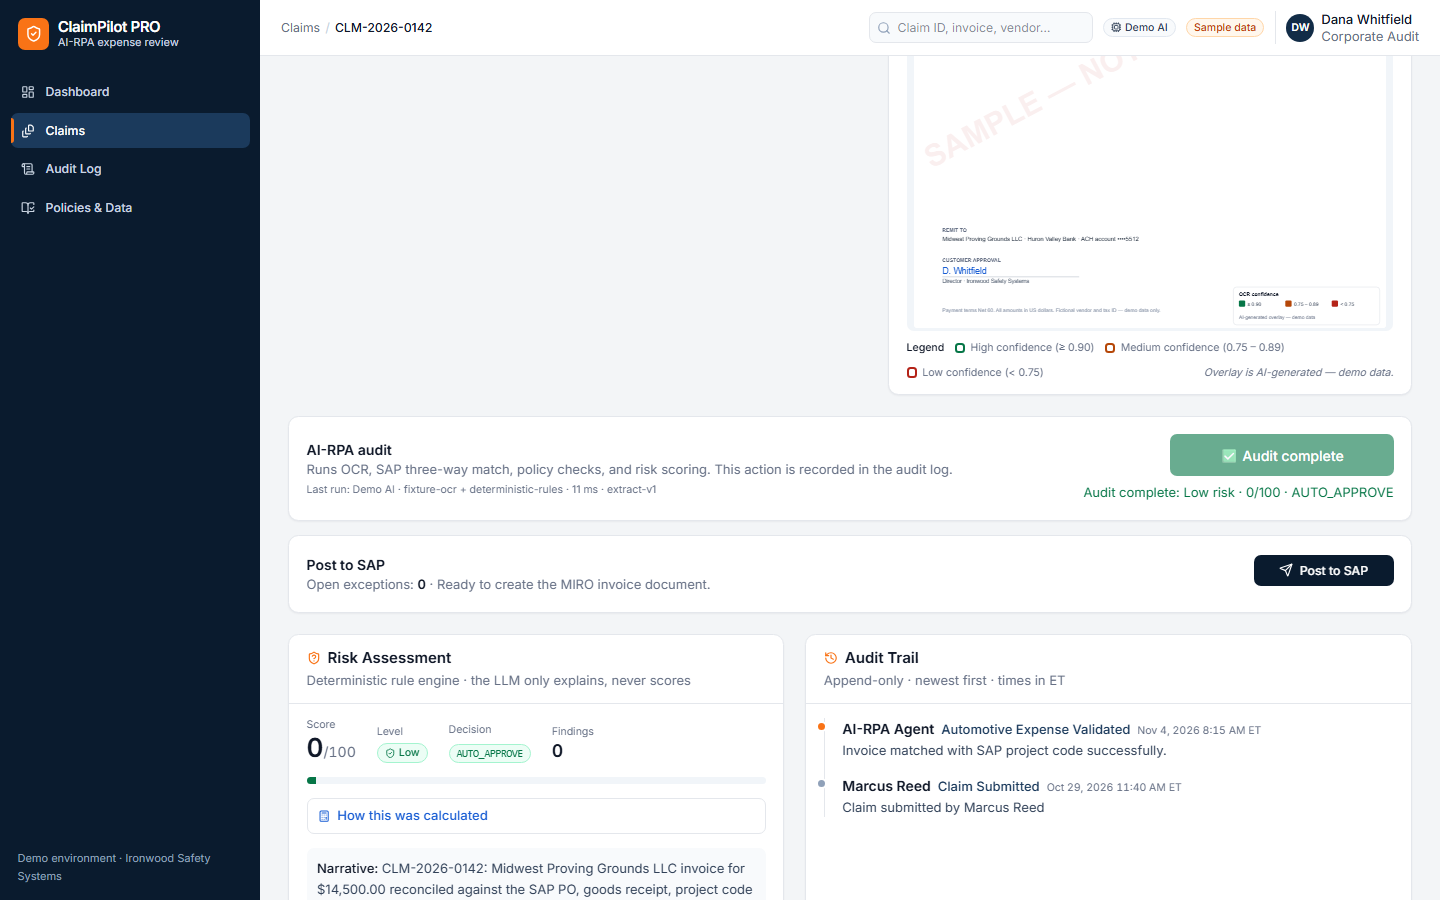
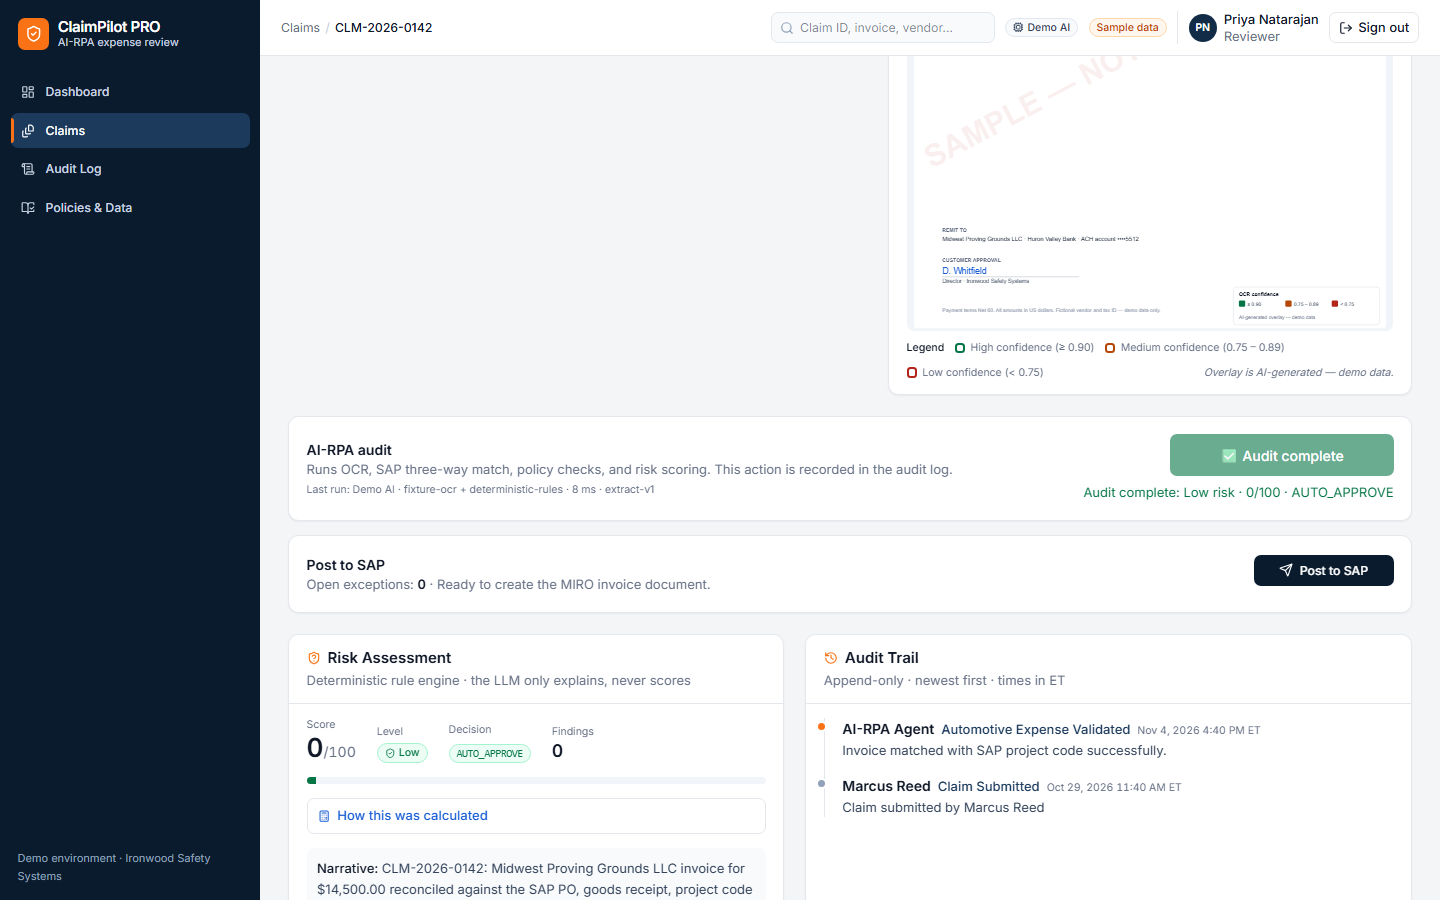
feat(auth): record who initiated system actions; polish, docs, Secure cookie
- AuditLog metadata.initiatedBy on the AI analysis row and the Posted to SAP
  row (renamed from postedBy); actor unchanged. /audit shows "initiated by".
- auditActionTone() helper: Posted is green, Resolved/Waived amber.
- Exceptions table shows who handled each exception (resolvedBy).
- Session cookie Secure follows the request protocol (isSecureRequest),
  fixing sign-in under `pnpm start` on plain http.
- Demo script requires sign-in, honors no-self-approval on CLM-2026-0144,
  never pays the 0145 duplicate. Screenshots regenerated incl. /login.
- No public registration (D-29), Secure cookie (D-30), initiatedBy (D-31).
- icon.svg favicon; ignore eng.traineddata.

Changed region(s): [[0.6875, 0.0, 1.0, 0.0622], [0.5625, 0.0, 0.625, 0.0622], [0.4062, 0.5289, 0.4375, 0.56]]

diff --git a/scripts/screenshots.ts b/scripts/screenshots.ts
@@ -1,5 +1,6 @@
 // Captures README screenshots and audit GIF frames from a running dev server.
 // Usage: start the app (`pnpm db:seed` for a fresh demo, then `pnpm dev`), then `pnpm shots`.
+// Requires AI_MODE="mock" and OCR_MODE="fixture" so the captures are deterministic.
 import { mkdir } from "node:fs/promises";
 import path from "node:path";
 import { chromium, type Page } from "playwright";
@@ -9,6 +10,8 @@ const BASE = process.env.SHOTS_BASE_URL ?? "http://localhost:3000";
 const OUT = path.resolve("docs/images");
 const FRAMES = path.join(OUT, "audit-frames");
 const CLAIM = "CLM-2026-0142";
+// Submitted by Elena Vasquez, so the reviewer may handle it; one R-11 exception (not a duplicate).
+const HANDLED = "CLM-2026-0143";
 
 async function probe(): Promise<boolean> {
   try {
@@ -37,9 +40,16 @@ async function main() {
   const browser = await chromium.launch();
   const page = await browser.newPage({ viewport: { width: 1440, height: 900 } });
   try {
-    // Pages require a session: sign in as the demo admin (the cookie is shared with the page).
-    const admin = DEMO_ACCOUNTS.find((a) => a.role === "admin")!;
-    const login = await page.request.post(`${BASE}/api/auth/login`, { data: { email: admin.email, password: admin.password } });
+    // Signed out: every page redirects to /login.
+    await page.goto(`${BASE}/dashboard`);
+    await page.waitForURL("**/login**");
+    await settle(page);
+    await page.screenshot({ path: path.join(OUT, "login.png") });
+    console.log("✔ login.png");
+
+    // Pages require a session: sign in as the demo reviewer (the cookie is shared with the page).
+    const reviewer = DEMO_ACCOUNTS.find((a) => a.role === "reviewer")!;
+    const login = await page.request.post(`${BASE}/api/auth/login`, { data: { email: reviewer.email, password: reviewer.password } });
     if (!login.ok()) {
       console.error(`Demo sign-in failed (${login.status()}). Run \`pnpm db:seed\` to create the demo accounts.`);
       process.exit(1);
@@ -89,6 +99,24 @@ async function main() {
     await riskCard.screenshot({ path: path.join(OUT, "risk-panel.png") });
     console.log("✔ risk-panel.png");
 
+    // A claim the reviewer handled: audit, waive its one exception, post. Shows "by …" and the green Posted row.
+    const api = async (method: "POST" | "PATCH", url: string, data?: unknown) => {
+      const res = await page.request.fetch(`${BASE}${url}`, { method, data });
+      if (!res.ok()) throw new Error(`${method} ${url} → ${res.status()} ${await res.text()}`);
+      return res.json() as Promise<Record<string, unknown>>;
+    };
+    const audited = (await api("POST", `/api/claims/${HANDLED}/audit`)) as { exceptions: { exceptionId: string }[] };
+    for (const ex of audited.exceptions) {
+      await api("PATCH", `/api/claims/${HANDLED}/exceptions/${ex.exceptionId}`, { status: "Waived", note: "Lodging rate approved by SQ manager — city-wide event pricing." });
+    }
+    await api("POST", `/api/claims/${HANDLED}/post`);
+    await page.goto(`${BASE}/claims/${HANDLED}`);
+    await settle(page);
+    const exceptionsCard = page.locator("section").filter({ has: page.getByText("One row per rule finding") });
+    await exceptionsCard.scrollIntoViewIfNeeded();
+    await exceptionsCard.screenshot({ path: path.join(OUT, "exceptions-handled.png") });
+    console.log("✔ exceptions-handled.png");
+
     await page.goto(`${BASE}/audit`);
     await settle(page);
     await page.screenshot({ path: path.join(OUT, "audit-log.png") });
@@ -96,7 +124,7 @@ async function main() {
   } finally {
     await browser.close();
   }
-  console.log(`Done → ${OUT}. Run \`pnpm db:seed\` to reset ${CLAIM} to Pending.`);
+  console.log(`Done → ${OUT}. Run \`pnpm db:seed\` to reset ${CLAIM} and ${HANDLED}.`);
 }
 
 main().catch((err) => {

diff --git a/src/app/(app)/claims/[claimId]/page.tsx b/src/app/(app)/claims/[claimId]/page.tsx
@@ -49,7 +49,7 @@ export default async function ClaimReviewPage({ params }: { params: Params }) {
   // UI mirror of the server-side checks (D-27): reviewer/admin, and never on your own claim.
   const user = await requireUser();
   const reviewBlock = !canReview(user) ? "Only a reviewer or admin can resolve exceptions and post to SAP." : claim.employee === user.name ? "You submitted this claim, so another reviewer must resolve and post it." : null;
-  const findings = claim.exceptions.map((e) => ({ exceptionId: e.exceptionId, ruleId: e.ruleId, anomalyType: e.anomalyType, riskLevel: e.riskLevel, points: e.points, message: e.message, status: e.status, evidence: e.evidence }));
+  const findings = claim.exceptions.map((e) => ({ exceptionId: e.exceptionId, ruleId: e.ruleId, anomalyType: e.anomalyType, riskLevel: e.riskLevel, points: e.points, message: e.message, status: e.status, evidence: e.evidence, resolvedBy: e.resolvedBy }));
 
   return (
     <article>
@@ -189,12 +189,14 @@ export default async function ClaimReviewPage({ params }: { params: Params }) {
               <h2 className="font-semibold">Post to SAP</h2>
               <p id="post-help" className="text-[13px] text-muted">
                 Open exceptions: <span className="tabular font-semibold text-ink">{openExceptions}</span>
-                {openExceptions > 0 ? " · Resolve or waive all exceptions first." : " · Ready to create the MIRO invoice document."}
+                {reviewBlock
+                  ? ` · ${reviewBlock}`
+                  : openExceptions > 0
+                    ? " · Resolve or waive all exceptions first."
+                    : " · Ready to create the MIRO invoice document."}
               </p>
             </div>
-            {reviewBlock ? (
-              <p className="max-w-sm text-[13px] text-muted">{reviewBlock}</p>
-            ) : (
+            {!reviewBlock && (
               <PostToSapButton claimId={claim.claimId} openExceptions={openExceptions} amountLabel={formatUsd(amountCents)} />
             )}
           </CardContent>

diff --git a/src/components/claims/audit-log-table.tsx b/src/components/claims/audit-log-table.tsx
@@ -7,6 +7,7 @@ import { X } from "lucide-react";
 import { formatEt } from "@/lib/domain/dates";
 import { Table, TBody, TD, TH, THead, TR } from "@/components/ui/table";
 import { Badge } from "@/components/ui/badge";
+import { auditActionTone, initiatedByOf } from "@/lib/audit/tone";
 
 type Row = { logId: string; timestamp: string; actor: string; action: string; details: string; claimId: string | null; metadata: string | null };
 
@@ -41,9 +42,15 @@ export function AuditLogTable({ rows }: { rows: Row[] }) {
           {rows.map((r) => (
             <TR key={r.logId}>
               <TD className="tabular whitespace-nowrap text-xs">{formatEt(r.timestamp)}</TD>
-              <TD className="whitespace-nowrap font-medium">{r.actor}</TD>
+              <TD className="whitespace-nowrap font-medium">
+                {r.actor}
+                {(() => {
+                  const by = initiatedByOf(r.metadata);
+                  return by && by !== r.actor ? <span className="block text-[11px] font-normal text-muted">initiated by {by}</span> : null;
+                })()}
+              </TD>
               <TD className="whitespace-nowrap">
-                <Badge tone={r.action.includes("Flagged") ? "red" : r.action.includes("Validated") ? "green" : r.action.includes("Failed") ? "amber" : "neutral"}>{r.action}</Badge>
+                <Badge tone={auditActionTone(r.action)}>{r.action}</Badge>
               </TD>
               <TD className="whitespace-nowrap font-mono text-xs">
                 {r.claimId ? (

diff --git a/src/lib/audit/disposition.ts b/src/lib/audit/disposition.ts
@@ -9,7 +9,7 @@ import { miroDocNo } from "./miro";
 
 export type PostResult = { claimId: string; status: "Posted"; postedAt: string; miroDocNo: string };
 
-/** `actor` is the signed-in reviewer: attributed on the Exceptions Resolved row and recorded as `postedBy` on the SAP row. */
+/** `actor` is the signed-in reviewer: attributed on the Exceptions Resolved row and recorded as `initiatedBy` on the SAP row. */
 export async function postClaim(claimId: string, opts: { requestId: string; actor: string; revalidate?: (paths: string[]) => void }): Promise<PostResult> {
   const claim = await prisma.claim.findUnique({ where: { claimId }, include: { vendor: true, exceptions: true } });
   if (!claim) throw new AuditError(404, "CLAIM_NOT_FOUND", `Claim ${claimId} not found`);
@@ -21,7 +21,7 @@ export async function postClaim(claimId: string, opts: { requestId: string; acto
   const now = new Date();
   const docNo = miroDocNo(now);
   const metadata = JSON.stringify({ requestId: opts.requestId });
-  const postMetadata = JSON.stringify({ requestId: opts.requestId, postedBy: opts.actor });
+  const postMetadata = JSON.stringify({ requestId: opts.requestId, initiatedBy: opts.actor });
   await prisma.$transaction(async (tx) => {
     // Status guard inside the transaction so concurrent posts cannot both succeed.
     const updated = await tx.claim.updateMany({ where: { claimId, status: "Analyzed" }, data: { status: "Posted", postedAt: now, miroDocNo: docNo } });

diff --git a/src/tests/audit-tone.test.ts b/src/tests/audit-tone.test.ts
@@ -1,0 +1,32 @@
+import { describe, expect, it } from "vitest";
+import { auditActionTone, initiatedByOf } from "@/lib/audit/tone";
+
+describe("auditActionTone", () => {
+  it("Flagged → red", () => expect(auditActionTone("Automotive Expense Flagged")).toBe("red"));
+  it("Validated | Posted → green", () => {
+    expect(auditActionTone("Automotive Expense Validated")).toBe("green");
+    expect(auditActionTone("Posted to SAP")).toBe("green");
+  });
+  it("Failed → amber", () => {
+    expect(auditActionTone("Audit Failed")).toBe("amber");
+    expect(auditActionTone("Sign-in Failed")).toBe("amber");
+  });
+  it("Resolved | Waived → amber", () => {
+    expect(auditActionTone("Exception Resolved")).toBe("amber");
+    expect(auditActionTone("Exceptions Resolved")).toBe("amber");
+    expect(auditActionTone("Exception Waived")).toBe("amber");
+  });
+  it("anything else → neutral", () => {
+    expect(auditActionTone("Claim Submitted")).toBe("neutral");
+    expect(auditActionTone("User Signed In")).toBe("neutral");
+  });
+});
+
+describe("initiatedByOf", () => {
+  it("reads initiatedBy from metadata, tolerating null and bad JSON", () => {
+    expect(initiatedByOf(JSON.stringify({ requestId: "x", initiatedBy: "Priya Natarajan" }))).toBe("Priya Natarajan");
+    expect(initiatedByOf(JSON.stringify({ initiatedBy: null }))).toBeNull();
+    expect(initiatedByOf(null)).toBeNull();
+    expect(initiatedByOf("{not json")).toBeNull();
+  });
+});

diff --git a/src/tests/audit.test.ts b/src/tests/audit.test.ts
@@ -12,7 +12,7 @@ afterAll(() => prisma.$disconnect());
 describe("runAudit (integration, mock mode)", () => {
   it("clean claim CLM-2026-0142 writes the exact validated entry and status Analyzed", async () => {
     const revalidated: string[] = [];
-    const res = await runAudit("CLM-2026-0142", opts({ revalidate: (p) => revalidated.push(...p) }));
+    const res = await runAudit("CLM-2026-0142", opts({ initiatedBy: "Priya Natarajan", revalidate: (p) => revalidated.push(...p) }));
     expect(res.claim).toMatchObject({ status: "Analyzed", riskScore: 0, riskLevel: "Low", decision: "AUTO_APPROVE" });
     expect(res.auditLog).toEqual({ actor: "AI-RPA Agent", action: "Automotive Expense Validated", details: "Invoice matched with SAP project code successfully." });
     expect(res.aiRun.mode).toBe("mock");
@@ -25,6 +25,9 @@ describe("runAudit (integration, mock mode)", () => {
     const logs = await aiLogs("CLM-2026-0142");
     expect(logs).toHaveLength(1);
     expect(logs[0]).toMatchObject({ action: "Automotive Expense Validated", details: "Invoice matched with SAP project code successfully." });
+    // actor stays the agent; the human who triggered the run is recorded separately.
+    expect(logs[0].actor).toBe("AI-RPA Agent");
+    expect(JSON.parse(logs[0].metadata!)).toMatchObject({ initiatedBy: "Priya Natarajan" });
     expect(await prisma.exception.count({ where: { claimId: "CLM-2026-0142" } })).toBe(0);
   });
 

diff --git a/src/tests/secure-cookie.test.ts b/src/tests/secure-cookie.test.ts
@@ -1,0 +1,12 @@
+import { describe, expect, it } from "vitest";
+import { isSecureRequest } from "@/lib/api";
+
+const req = (url: string, proto?: string) => new Request(url, { headers: proto ? { "x-forwarded-proto": proto } : {} });
+
+describe("isSecureRequest (cookie Secure flag follows the protocol, not NODE_ENV)", () => {
+  it("plain http → false", () => expect(isSecureRequest(req("http://localhost:3000/api/auth/login"))).toBe(false));
+  it("https → true", () => expect(isSecureRequest(req("https://claims.ironwood.example/api/auth/login"))).toBe(true));
+  it("x-forwarded-proto: https behind a TLS-terminating proxy → true", () => expect(isSecureRequest(req("http://10.0.0.5:3000/api/auth/login", "https"))).toBe(true));
+  it("x-forwarded-proto: http wins over an https URL → false", () => expect(isSecureRequest(req("https://claims.ironwood.example/api/auth/login", "http"))).toBe(false));
+  it("uses the first hop of a comma-separated chain", () => expect(isSecureRequest(req("http://localhost/api/auth/login", "https, http"))).toBe(true));
+});

diff --git a/src/app/api/claims/[claimId]/audit/route.ts b/src/app/api/claims/[claimId]/audit/route.ts
@@ -10,7 +10,8 @@ export const dynamic = "force-dynamic";
 
 export async function POST(req: Request, { params }: { params: Promise<{ claimId: string }> }) {
   const requestId = newRequestId();
-  if (!(await requireUser({ api: true }))) return jsonError(401, "UNAUTHENTICATED", "Sign in to continue", requestId);
+  const user = await requireUser({ api: true });
+  if (!user) return jsonError(401, "UNAUTHENTICATED", "Sign in to continue", requestId);
   const { claimId: rawId } = await params;
   const parsed = claimIdSchema.safeParse(rawId);
   if (!parsed.success) return jsonError(400, "INVALID_CLAIM_ID", "Invalid claim ID", requestId);
@@ -25,6 +26,7 @@ export async function POST(req: Request, { params }: { params: Promise<{ claimId
     const result = await runAudit(claimId, {
       requestId,
       idempotencyKey: key,
+      initiatedBy: user.name,
       revalidate: (paths) => paths.forEach((p) => revalidatePath(p)),
     });
     return NextResponse.json(result, { status: 200, headers: { "x-request-id": requestId } });

diff --git a/src/tests/roles.test.ts b/src/tests/roles.test.ts
@@ -68,7 +68,7 @@ describe("role enforcement (segregation of duties)", () => {
     expect(log.actor).toBe(reviewer.name);
   });
 
-  it("a reviewer posts the claim; summary row by the reviewer, SAP row records postedBy", async () => {
+  it("a reviewer posts the claim; summary row by the reviewer, SAP row records initiatedBy", async () => {
     current = reviewer;
     const res = await postReq(target.claimId);
     expect(res.status).toBe(200);
@@ -77,7 +77,7 @@ describe("role enforcement (segregation of duties)", () => {
     expect(resolved.actor).toBe(reviewer.name);
     const sap = await prisma.auditLog.findFirstOrThrow({ where: { claimId: target.claimId, action: "Posted to SAP" } });
     expect(sap.actor).toBe("SAP S/4HANA Integration");
-    expect(JSON.parse(sap.metadata!)).toMatchObject({ postedBy: reviewer.name });
+    expect(JSON.parse(sap.metadata!)).toMatchObject({ initiatedBy: reviewer.name });
   });
 
   it("a reviewer cannot post or resolve on a claim they submitted themselves → 403", async () => {

diff --git a/src/lib/audit/run-audit.ts b/src/lib/audit/run-audit.ts
@@ -45,6 +45,8 @@ const inFlight = new Set<string>();
 export type RunAuditOptions = {
   requestId: string;
   idempotencyKey?: string | null;
+  /** Human who triggered the audit; recorded in metadata, never as `actor` (that stays "AI-RPA Agent"). */
+  initiatedBy?: string;
   revalidate?: (paths: string[]) => void;
 };
 
@@ -190,7 +192,7 @@ export async function runAudit(claimId: string, opts: RunAuditOptions): Promise<
             timestamp: analyzedAt,
             ...entry,
             claimId,
-            metadata: JSON.stringify({ requestId: opts.requestId, riskScore: result.score, riskLevel: result.riskLevel, decision: result.decision, mode: run.mode, rules: result.findings.map((f) => f.ruleId) }),
+            metadata: JSON.stringify({ requestId: opts.requestId, initiatedBy: opts.initiatedBy ?? null, riskScore: result.score, riskLevel: result.riskLevel, decision: result.decision, mode: run.mode, rules: result.findings.map((f) => f.ruleId) }),
           },
         });
         await tx.aiRun.create({

diff --git a/src/components/claims/panels.tsx b/src/components/claims/panels.tsx
@@ -57,7 +57,7 @@ export function LockedPlaceholder() {
   );
 }
 
-export type FindingRow = { exceptionId: string; ruleId: string; anomalyType: string; riskLevel: string; points: number; message: string; status: string; evidence: string | null };
+export type FindingRow = { exceptionId: string; ruleId: string; anomalyType: string; riskLevel: string; points: number; message: string; status: string; evidence: string | null; resolvedBy: string | null };
 
 export function RiskPanel({
   status,
@@ -219,6 +219,7 @@ export function ExceptionsTable({ findings, analyzed, claimId, canHandle }: { fi
                 </TD>
                 <TD>
                   <Badge tone={f.status === "Open" ? "amber" : f.status === "Resolved" ? "green" : "neutral"}>{f.status}</Badge>
+                  {f.resolvedBy && <span className="mt-1 block text-[11px] text-muted">by {f.resolvedBy}</span>}
                 </TD>
                 <TD>
                   {canHandle && f.status === "Open" ? (

diff --git a/src/app/api/auth/logout/route.ts b/src/app/api/auth/logout/route.ts
@@ -3,7 +3,7 @@ import { NextResponse } from "next/server";
 import { prisma } from "@/lib/db";
 import { deleteSession, tokenFromCookieHeader } from "@/lib/auth/session";
 import { SESSION_COOKIE } from "@/lib/auth/constants";
-import { clientIp, isSameOrigin, jsonError, newRequestId } from "@/lib/api";
+import { clientIp, isSameOrigin, isSecureRequest, jsonError, newRequestId } from "@/lib/api";
 
 export const runtime = "nodejs";
 export const dynamic = "force-dynamic";
@@ -26,6 +26,6 @@ export async function POST(req: Request) {
   }
 
   const res = NextResponse.json({ signedOut: true }, { status: 200, headers: { "x-request-id": requestId } });
-  res.cookies.set(SESSION_COOKIE, "", { httpOnly: true, sameSite: "lax", path: "/", maxAge: 0, secure: process.env.NODE_ENV === "production" });
+  res.cookies.set(SESSION_COOKIE, "", { httpOnly: true, sameSite: "lax", path: "/", maxAge: 0, secure: isSecureRequest(req) });
   return res;
 }
